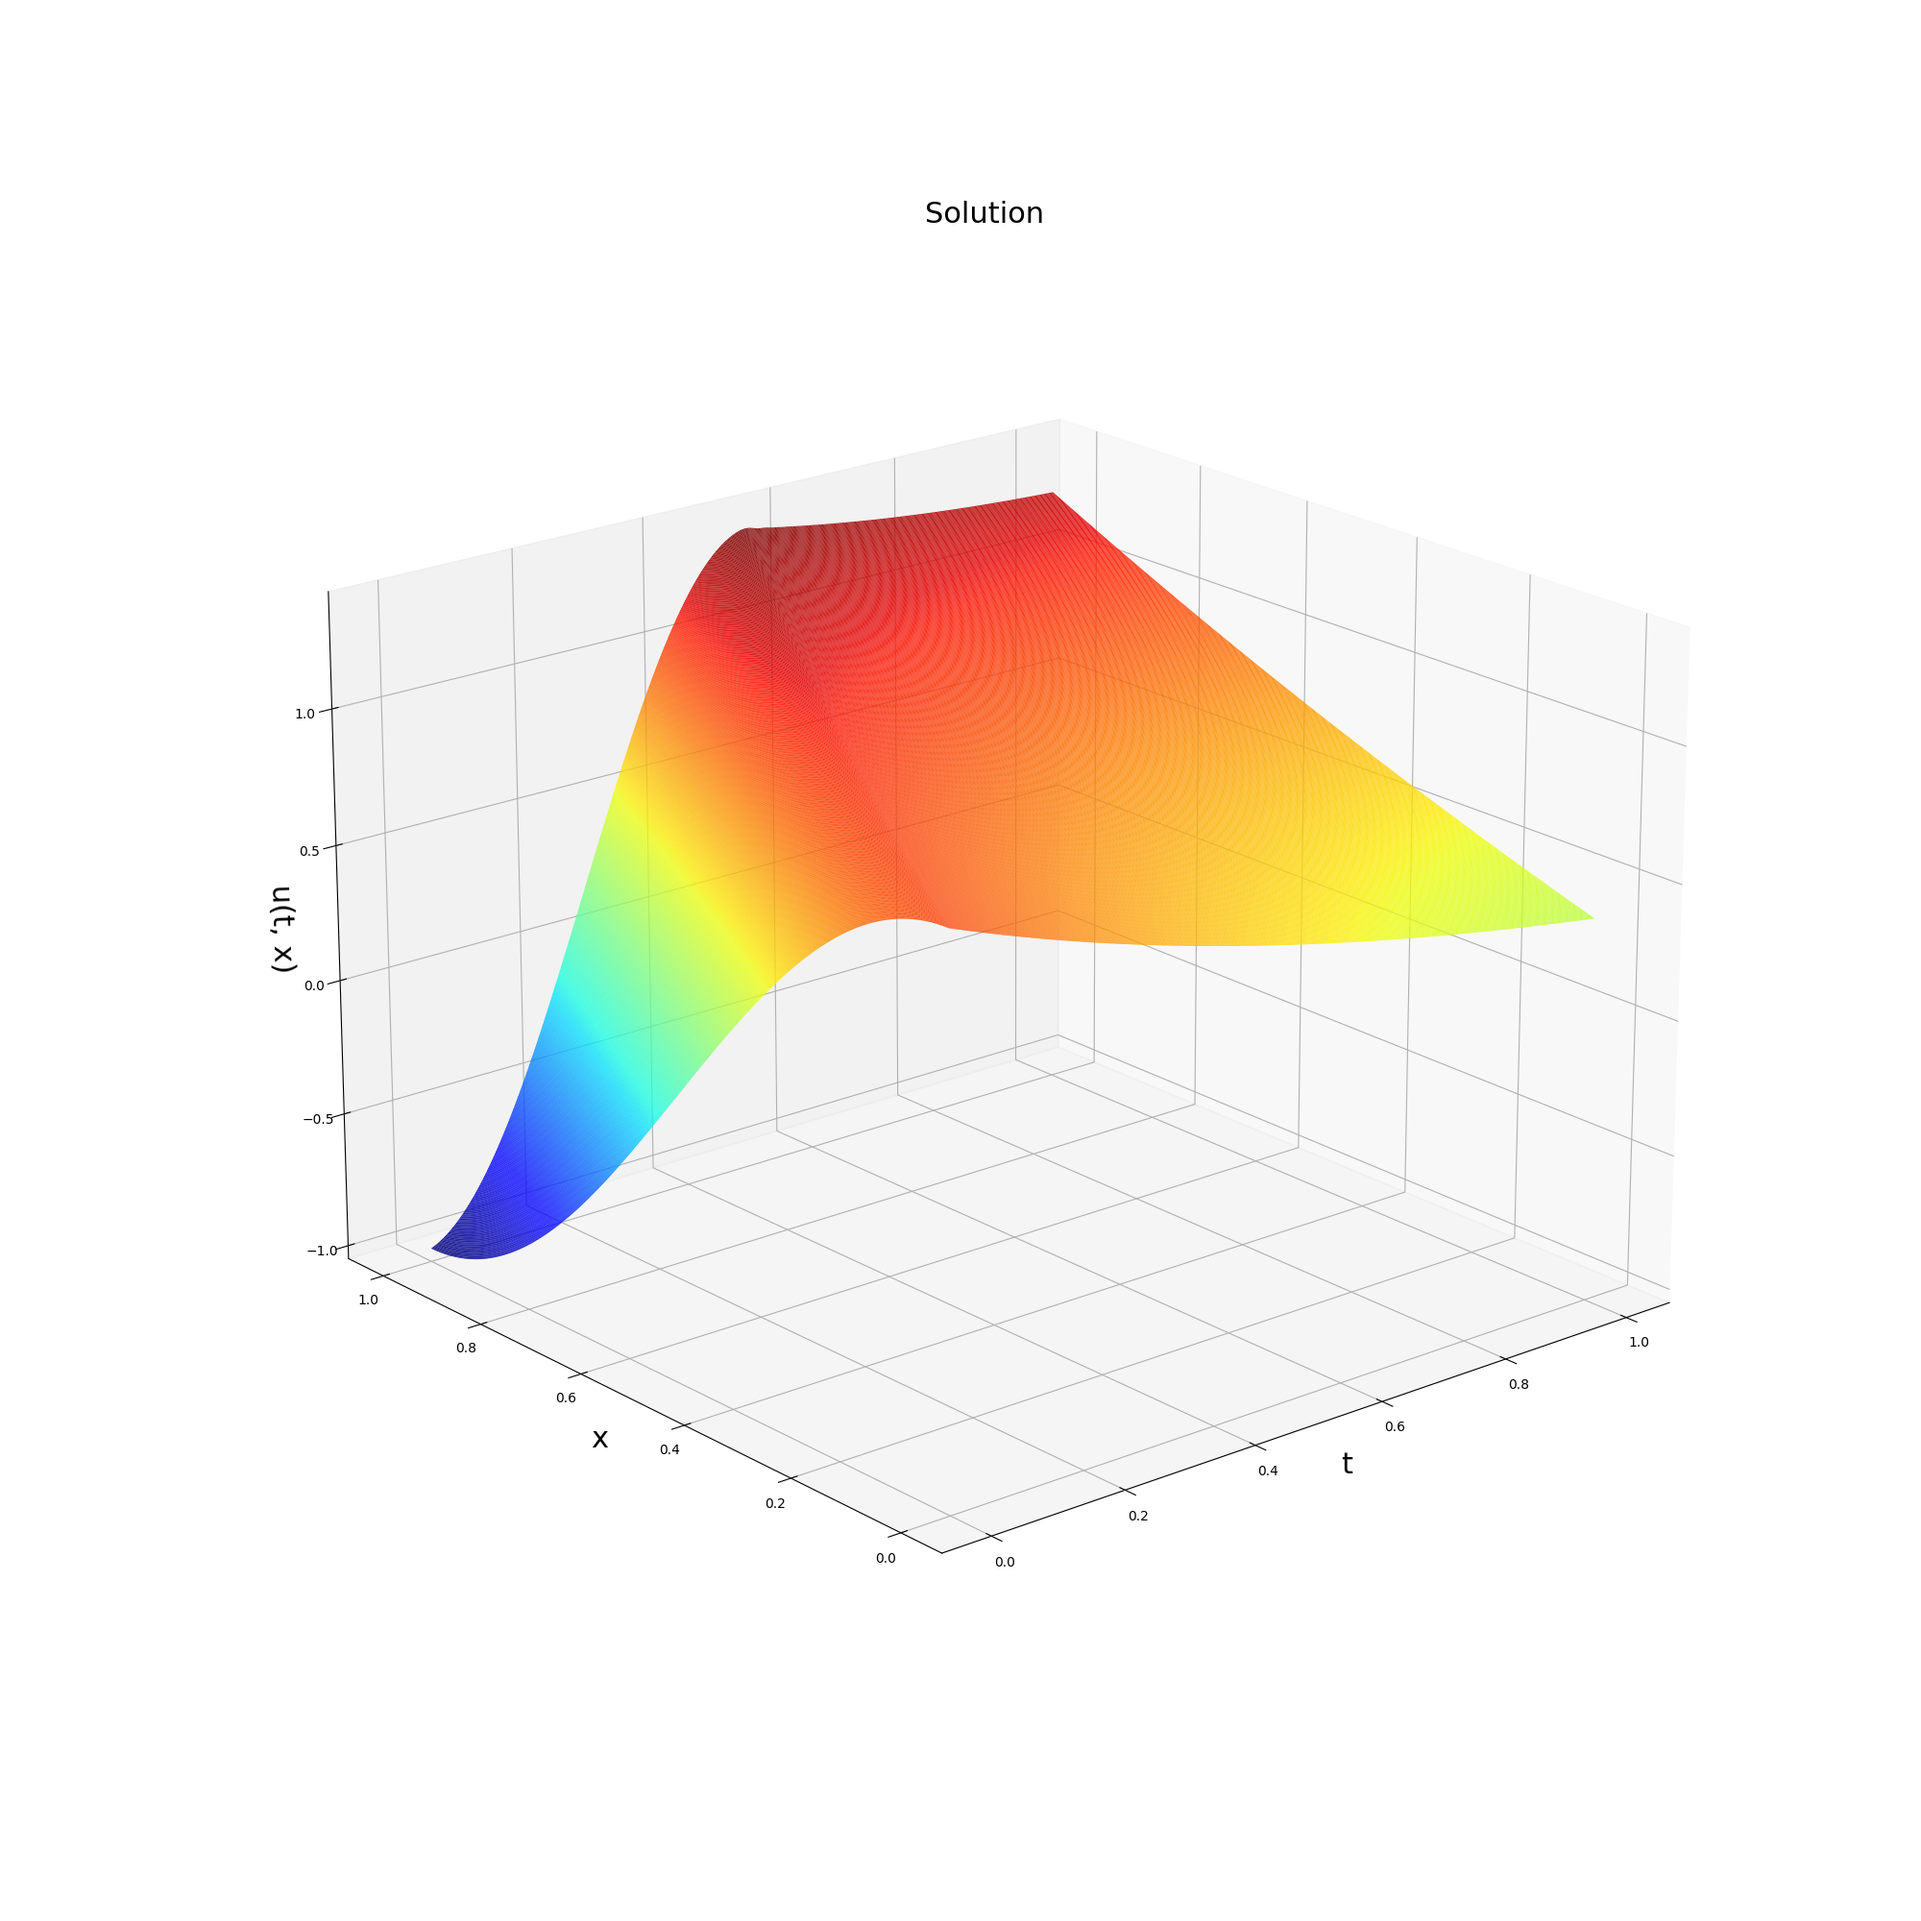
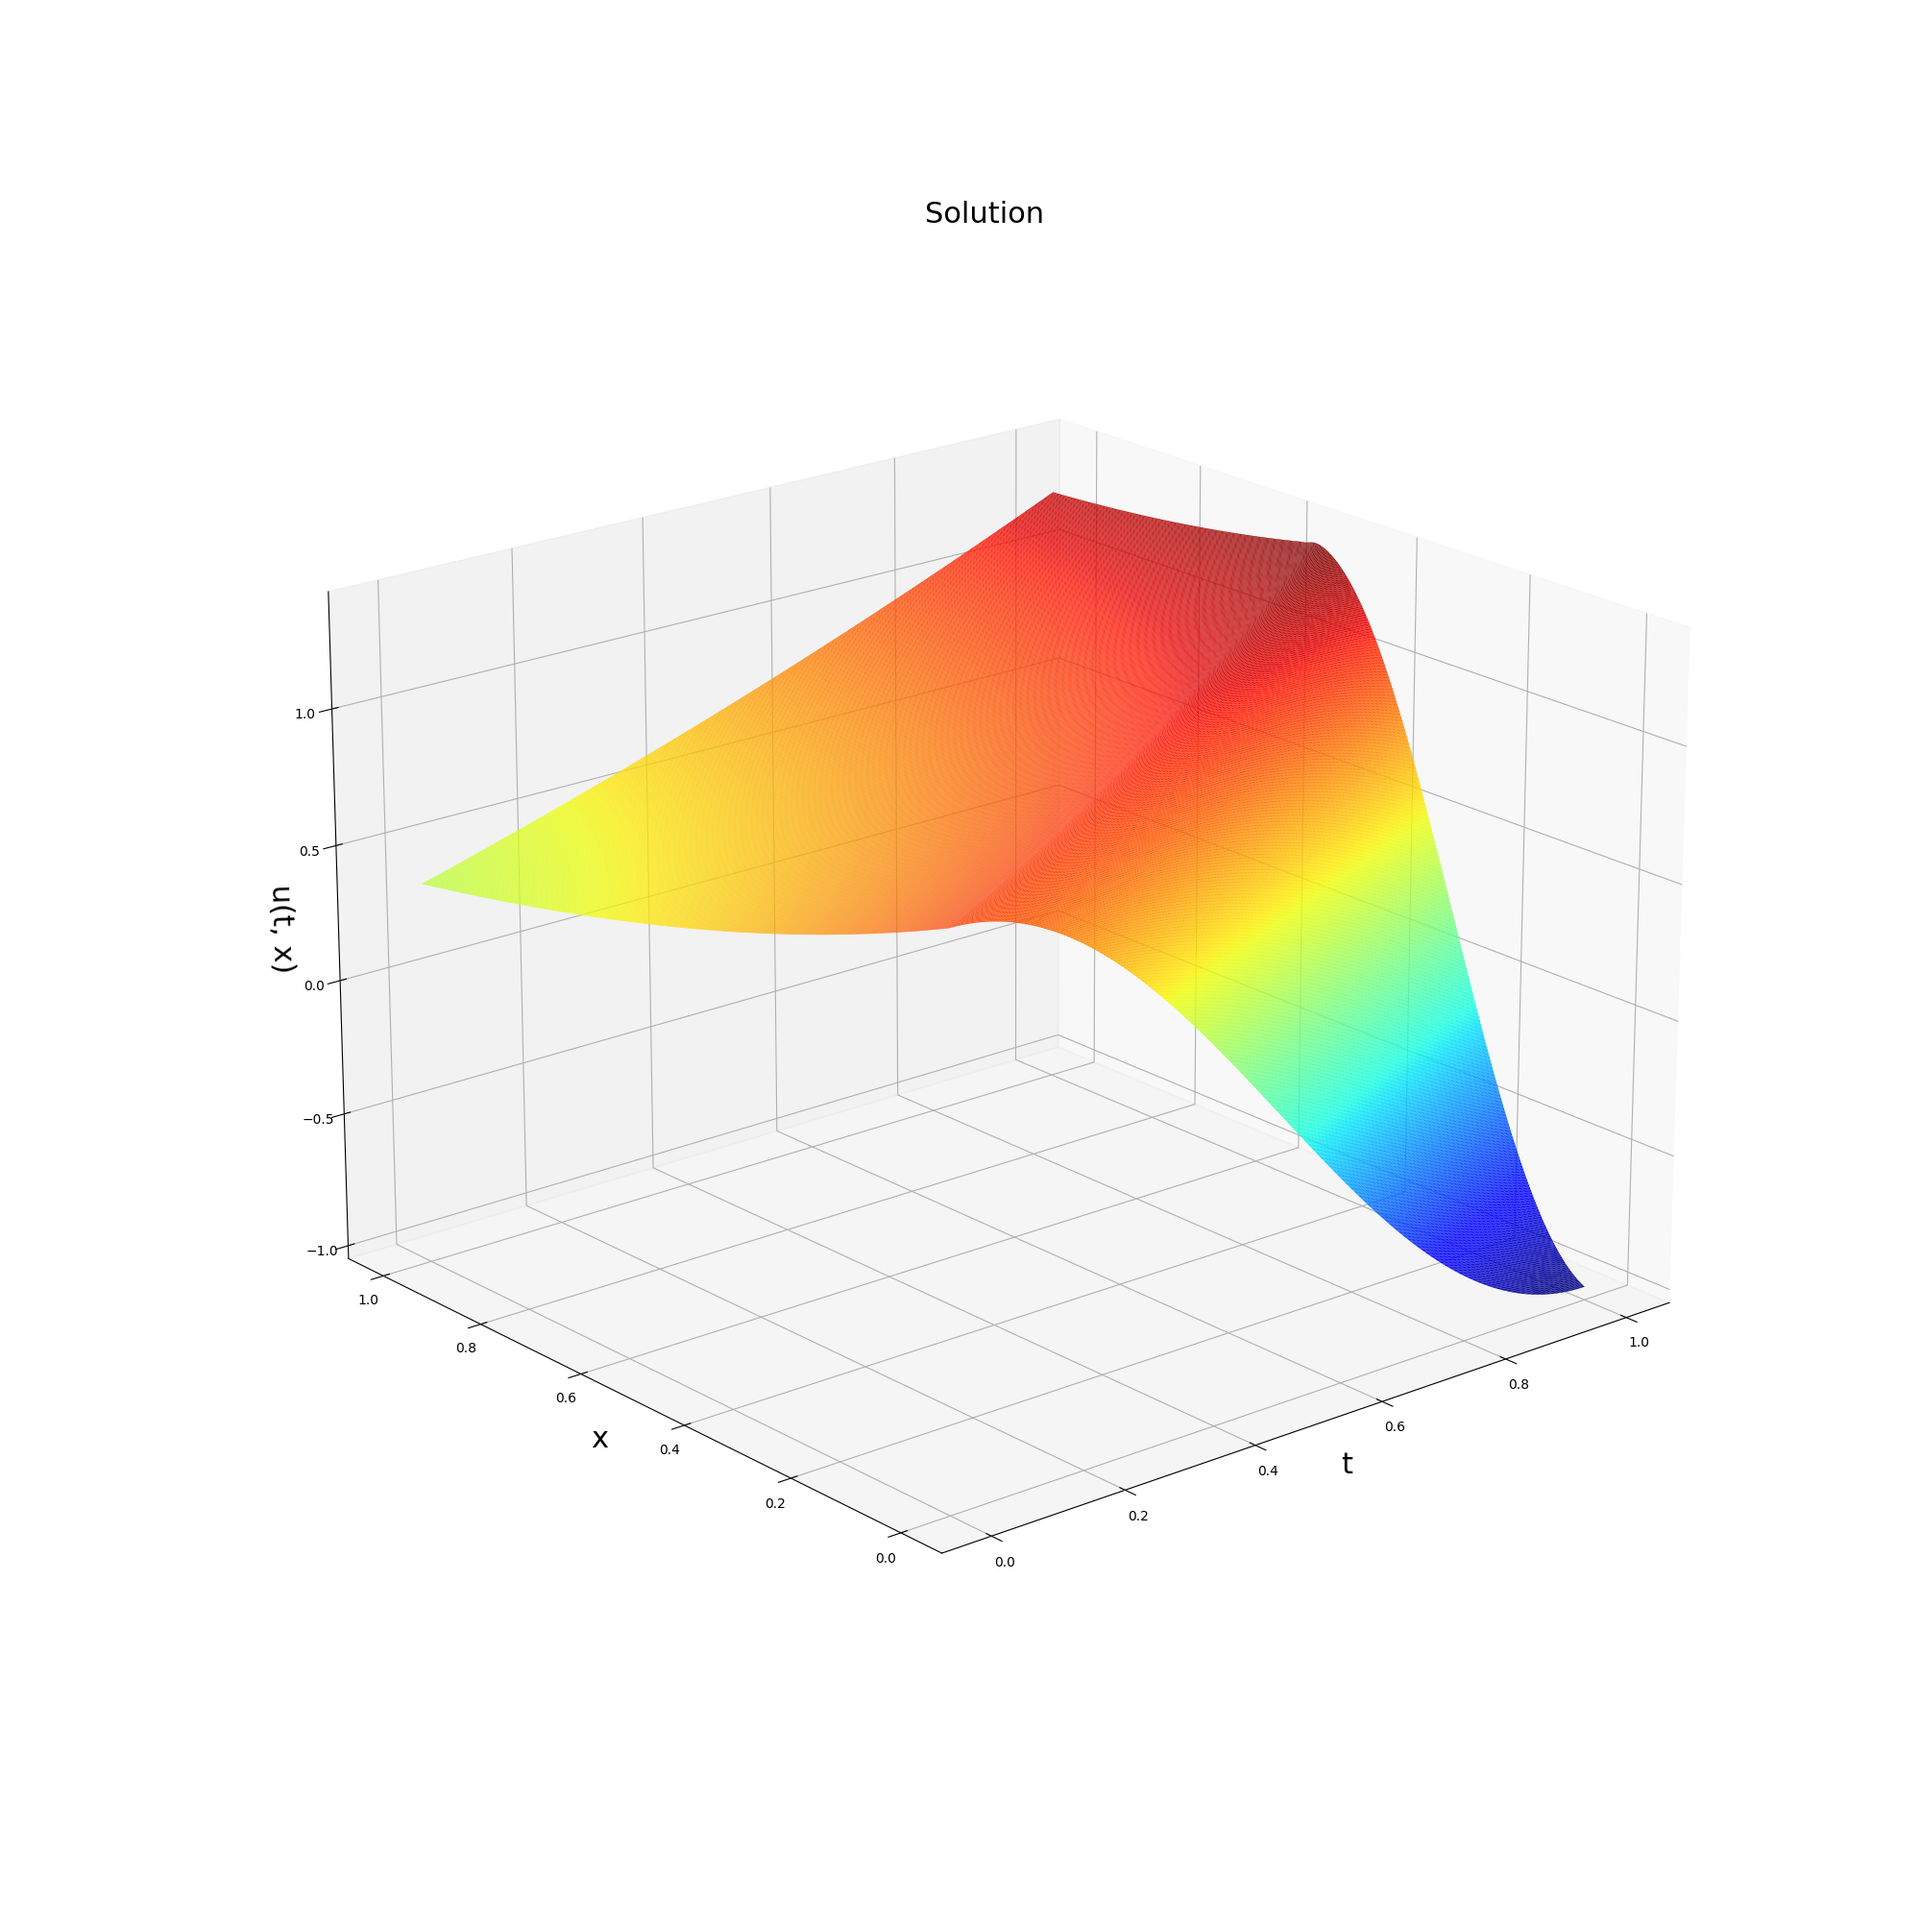
Transposed

Changed region(s): [[0.217, 0.248, 0.837, 0.682]]

diff --git a/TransportEquation/run.py b/TransportEquation/run.py
@@ -10,7 +10,6 @@ matplotlib.use('Agg')
 def print_cyan(str):
     print(colored(str, "cyan"))
 
-
 def makeplot(x, y, xlabel = "x", ylabel = "y", title = "y(x)", show = 1, grid = 1, label = 0):
     if label != 0:
         plt.plot(x, y, label = label, color = np.random.rand(3))
@@ -44,7 +43,7 @@ def make_surface(u, t, x, title=''):
     fig = plt.figure(figsize=(20, 20))
     ax = plt.axes(projection='3d')
     ts, xs = np.meshgrid(t, x)
-    ax.plot_surface(ts, xs, u.transpose(), rstride=1, cstride=1, cmap='jet', edgecolor='none')
+    ax.plot_surface(ts, xs, u, rstride=1, cstride=1, cmap='jet', edgecolor='none')
     ax.view_init(20, -130)
     size=22
     if title != '':
